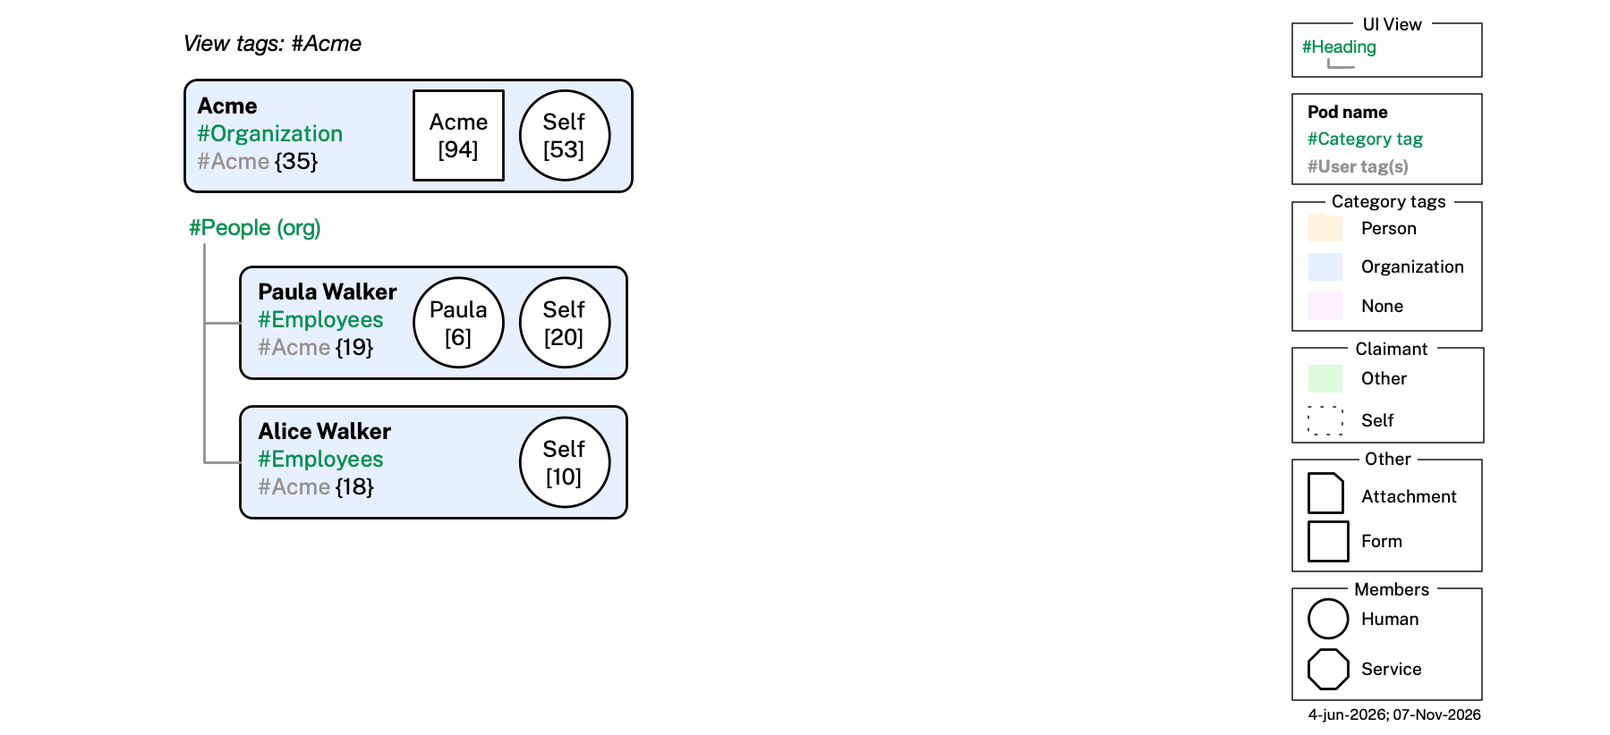
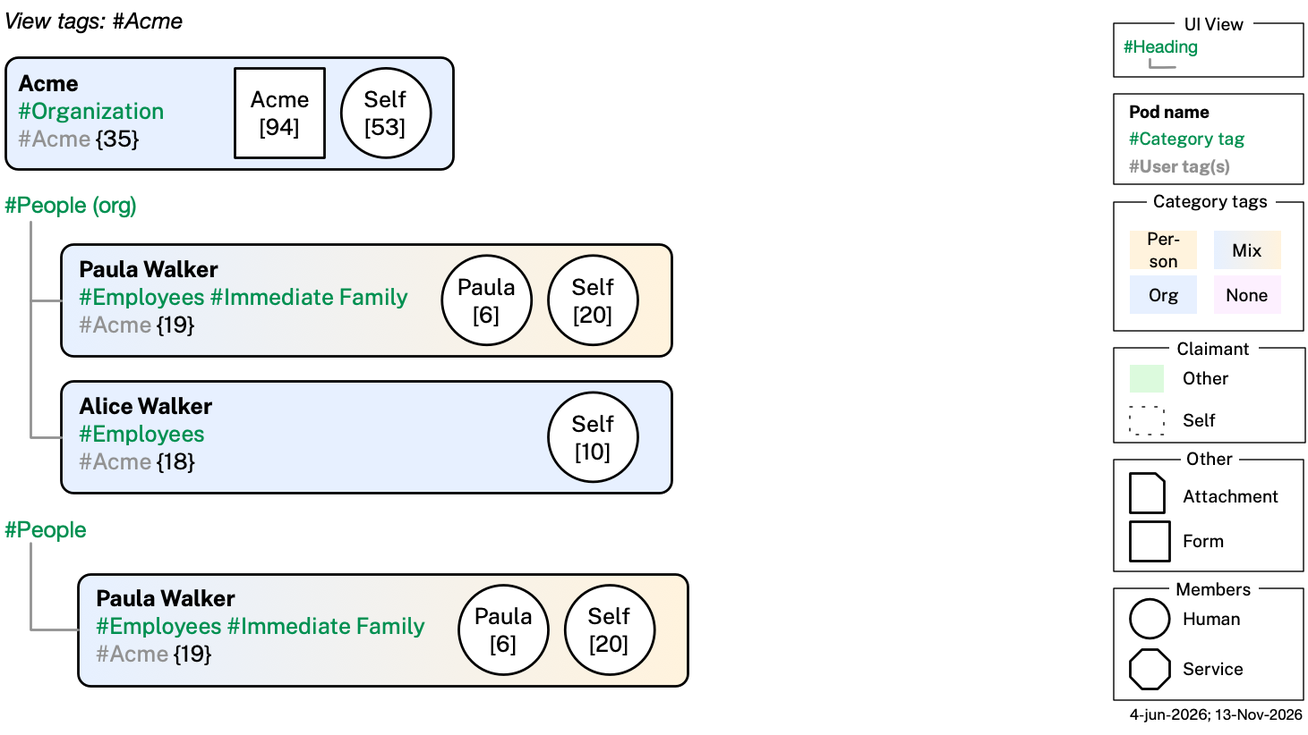
Redraw work.png with Paula Walker's two category tags
Paula Walker's box now shows both tags on one green line, carries the
Mixed fill as a light-blue-to-tan gradient, and is drawn once under each
of her tags' headers: #People (org) beside Alice Walker, and #People. The
legend's Category tags box becomes a 2x2 grid: Person, Mix, Org, None.
integrity.md (PNG-1/1f/1h/1i, PNG-8, PNG-9), README.md, app-behavior.md and
example.md now describe that style. The PNG-1i script prints the box's full
tag line.

pod.png was already redrawn with categoryTag 0..N and went into e15a21aa,
whose message wrongly listed it as still to do. The 2x2 legend still has
to be carried into the other 12 diagrams.

diff --git a/integrity.md b/integrity.md
@@ -53,7 +53,7 @@ These read a **PNG**: either its pixels, or the drawing itself compared by eye a
 **PNG-1 — Example pod diagrams**: Each of the 12 pod diagrams in `example/images/` draws one persistent view as the desktop app would display it: a flat list of pod boxes, plus display-only elements the app generates from the pods' tags. None of those elements is a pod, and none is stored anywhere. The diagrams draw no nesting, and none should ever be added: pods are a flat set. Each pod box corresponds to a pod in `example/Pods/`, the folder `example/Pods/<Name>/` holding its one pod-databook, `<Name>.databook.md`. The box's bold black first line is the pod's name, mirrored in its pod-databook's `title:`. A pod box reads, top to bottom:
 
 1. the pod's name, in bold black;
-2. its category tags as green `#<prefLabel>` lines, one per tag, if it has any (PNG-1f);
+2. its category tags on one green line, each as `#<prefLabel>`, if it has any (PNG-1f);
 3. its user tags as grey `#<tag>` text, if it has any (PNG-1f);
 4. its `{NN}` pod number (PNG-1g).
 
@@ -96,7 +96,7 @@ for path in sorted(glob.glob('example/Pods/**/*.databook.md', recursive=True)):
 
 - **PNG-1e — Retired.** It matched each diagram's child arrows to folder nesting under `example/Pods/`. Pods do not nest and `example/Pods/` is flat (FS-5), so there are no child links to match. The grey connectors the 12 diagrams draw join a group header to the pods listed under it (PNG-1i); they are display-only and say nothing about nesting.
 
-- **PNG-1f — Green category-tag lines and grey user-tag text match the pod's tags**: Below the name, a pod box shows its own tags, with the hash the UI uses for a tag. Each **category tag** is a green `#<prefLabel>` line, one per `pod:categoryTag` concept in `tpod.categoryTag` order, giving that concept's `skos:prefLabel`, from `pod-categories.ttl` or from a category extension's own file under `pod-category-ext/`. The label must match its concept's `skos:prefLabel` verbatim, no more and no fewer words, and never abbreviated. The line is shown even when the label equals the pod's own name: `things.png`'s "Things" box shows `#Things`, and `gov-federal.png`'s "SSN" box shows `#SSN`. No green line is drawn only for a pod with no category tags. The **user tags** follow in grey, each as `#<tag>`, one per `tpod.userTag` value, and none for a pod with none: `pets.png`'s three boxes each show `#Ginger`, and `work.png`'s three each show `#Acme`. A box shows no implied (broader) tag. The broader concepts appear only as group headers (PNG-1i). This is a visual check. PNG-1i's script prints every pod's green and grey lines for cross-reference: for example, `work.png`'s "Paula Walker" box shows two green lines, `#Employees` and `#Immediate Family`, `home.png`'s "Paradise" box shows `#Home` and its "Boston" box `#Previous`, matching their tags `podcat:Home` and `podcat:Previous`, and `travel.png`'s "Kyoto Trip 2027" box shows `#Trips`.
+- **PNG-1f — Green category-tag lines and grey user-tag text match the pod's tags**: Below the name, a pod box shows its own tags, with the hash the UI uses for a tag. The **category tags** share one green line, each written `#<prefLabel>` and separated by a space, in `tpod.categoryTag` order, giving each concept's `skos:prefLabel`, from `pod-categories.ttl` or from a category extension's own file under `pod-category-ext/`. The label must match its concept's `skos:prefLabel` verbatim, no more and no fewer words, and never abbreviated. The line is shown even when the label equals the pod's own name: `things.png`'s "Things" box shows `#Things`, and `gov-federal.png`'s "SSN" box shows `#SSN`. No green line is drawn only for a pod with no category tags. The **user tags** follow in grey, each as `#<tag>`, one per `tpod.userTag` value, and none for a pod with none: `pets.png`'s three boxes each show `#Ginger`, and `work.png`'s three each show `#Acme`. A box shows no implied (broader) tag. The broader concepts appear only as group headers (PNG-1i). This is a visual check. PNG-1i's script prints every pod's green and grey lines for cross-reference: for example, `work.png`'s "Paula Walker" box shows the green line `#Employees #Immediate Family`, `home.png`'s "Paradise" box shows `#Home` and its "Boston" box `#Previous`, matching their tags `podcat:Home` and `podcat:Previous`, and `travel.png`'s "Kyoto Trip 2027" box shows `#Trips`.
 
 - **PNG-1g — Black curly-brace `{NN}` label matches the pod's own `pod-<NN>` id**: Every pod box ends with a small black `{NN}` label in curly braces: the pod's own number. It sits on its own last line, or at the end of the last tag line (`#Ginger {41}`, `#Groups {27}`). It must equal the number in the pod-databook's own `id: http://www.example.org/tpod/pods/pod-<NN>` (see YAML-3), written without its zero padding. Group headers and the view header carry no `{NN}`, since they are not pods. Don't confuse this label with the `[NN]` labels on graph shapes (PNG-1d): those are graph numbers in square brackets on a circle, octagon or square, while this is the pod's own number in curly braces on the box itself. This is a visual check (no automated OCR), but the script below, and PNG-1i's, print every pod's actual `pod-<NN>` for cross-reference. For example, `people.png`'s "Bob Johnson" box shows `{16}` and its "Fred Flintstone" box `{17}`; `people2.png`'s "Sophia Walker" box shows `{12}`, "Sophia Health & Wellness" `{13}`, "Jane Starostina" `{14}` and "Medical Appointment" `{15}`; `pets.png`'s "Ginger" box shows `{41}`, "Ginger Medical" `{40}` and "Ginger Care & Feeding" `{42}`; and `travel.png`'s "Kyoto Trip 2027" box shows `{47}` and "Hilton" `{52}`. Run:
 
@@ -112,12 +112,12 @@ for path in sorted(glob.glob('example/Pods/**/*.databook.md', recursive=True)):
         print(f'{m.group(1)}  {path}')
 ```
 
-- **PNG-1h — Fill color matches real data**: Every pod box's **fill** is set by its category type, matching the legend's "Category tags" box. The type comes from the top concepts the pod's `pod:categoryTag` values reach, following `skos:broader` upward, and for a category extension's concept its single `skos:broadMatch` into the core taxonomy first. The fill is tan/Person when every tag reaches `podcat:Person`, light blue/Organization when every tag reaches `podcat:Organization`, split tan/light-blue (Mixed) when the tags reach both, and purple/None when the pod carries no category tag at all. A pod's **name** is always bold black. These diagrams carry no green-name/black-name distinction, the category tags being shown on their own green lines instead (PNG-1f). This is a visual check (no automated pixel/OCR comparison). Use PNG-9's script to compute the correct fill for every pod. For example, `people.png`'s "Bob Johnson" and "Fred Flintstone" are tan (tag `podcat:Others`), `work.png`'s "Acme" and "Alice Walker" are light blue (`podcat:Organization` itself, and `podcat:Employees`, which reaches it), its "Paula Walker" is split tan/light-blue (Mixed: `podcat:Employees` reaches `podcat:Organization`, `podcat:ImmediateFamily` reaches `podcat:Person`), and `groups.png`'s "Boston Hub Society" is tan (`bhscat:BostonHubSociety` reaches `podcat:Person` through its `skos:broadMatch` to `podcat:Groups`). Every example pod carries a category tag, so no example diagram box is expected to show purple fill.
+- **PNG-1h — Fill color matches real data**: Every pod box's **fill** is set by its category type, matching the legend's "Category tags" box. The type comes from the top concepts the pod's `pod:categoryTag` values reach, following `skos:broader` upward, and for a category extension's concept its single `skos:broadMatch` into the core taxonomy first. The fill is tan/Person when every tag reaches `podcat:Person`, light blue/Organization when every tag reaches `podcat:Organization`, a light-blue-to-tan gradient (Mixed) when the tags reach both, and purple/None when the pod carries no category tag at all. A pod's **name** is always bold black. These diagrams carry no green-name/black-name distinction, the category tags being shown on their own green line instead (PNG-1f). This is a visual check (no automated pixel/OCR comparison). Use PNG-9's script to compute the correct fill for every pod. For example, `people.png`'s "Bob Johnson" and "Fred Flintstone" are tan (tag `podcat:Others`), `work.png`'s "Acme" and "Alice Walker" are light blue (`podcat:Organization` itself, and `podcat:Employees`, which reaches it), its "Paula Walker" carries the light-blue-to-tan gradient (Mixed: `podcat:Employees` reaches `podcat:Organization`, `podcat:ImmediateFamily` reaches `podcat:Person`), and `groups.png`'s "Boston Hub Society" is tan (`bhscat:BostonHubSociety` reaches `podcat:Person` through its `skos:broadMatch` to `podcat:Groups`). Every example pod carries a category tag, so no example diagram box is expected to show purple fill.
 
 - **PNG-1i — The view header and group headers match the pods' tags**: These elements are display-only, and none of them is a pod. Each diagram carries one view header and zero or more group headers.
 
   - **The view header** is an italic `View tags: #<tag>` at the top left. It names the persistent view's stored tag query, and every pod box drawn must match it. A pod matches when the tag is one of the pod's user tags (`#Ginger`, `#Sophia`, `#Acme`), when the tag is one of the pod's category tags, or when the tag is a concept one of its category tags reaches upward (`#Travel` matches `#Trips` and `#Provider`; `#Groups` matches `#Boston Hub Society` through its `skos:broadMatch`).
-  - **A group header** is a green `#<prefLabel>` with grey connectors to the pods listed under it. A pod's headers are, for each of its category tags, the broader concepts that tag reaches, outermost first, down to the tag's immediate broader concept. A pod with several category tags is listed once under each of its tags' header chains, so it can appear more than once in one view: `work.png`'s "Paula Walker" sits under `#People (org)` for `podcat:Employees` and under `#People` for `podcat:ImmediateFamily`. The top concept (`podcat:Person` or `podcat:Organization`) is never drawn as a header. A deeper header is drawn indented beneath the one above it: `people2.png`'s `#Health & Wellness`, then `#Medical`, then `#Provider`, above Jane Starostina and Medical Appointment. A header is never the category tag it is drawn for; that tag is on the box (PNG-1f).
+  - **A group header** is a green `#<prefLabel>` with grey connectors to the pods listed under it. A pod's headers are, for each of its category tags, the broader concepts that tag reaches, outermost first, down to the tag's immediate broader concept. A pod with several category tags is listed once under each of its tags' header chains, so it can appear more than once in one view: `work.png`'s "Paula Walker" is drawn twice, once under `#People (org)` for `podcat:Employees` and once under `#People` for `podcat:ImmediateFamily`, both boxes identical. The top concept (`podcat:Person` or `podcat:Organization`) is never drawn as a header. A deeper header is drawn indented beneath the one above it: `people2.png`'s `#Health & Wellness`, then `#Medical`, then `#Provider`, above Jane Starostina and Medical Appointment. A header is never the category tag it is drawn for; that tag is on the box (PNG-1f).
   - **Pods with no header** are those listed for a tag that sits directly under a top concept, or is one, and those which carry no tag. They are listed first, above every header: `things.png`'s "Things" (`#Things`, directly under Person) above `#Things` and RAV4, and `work.png`'s "Acme" (`#Organization`) above `#People (org)`.
 
   A header that stands for no concept the tag it is drawn for reaches, or a header skipped in the chain, is an error. So is a header that duplicates that tag, or a top concept drawn as a header. The script below prints, for every pod and each of its category tags, the header chain, the green category-tag line, its grey user-tags line, and its `{NN}`. Run:
@@ -171,13 +171,15 @@ for path in sorted(glob.glob('example/Pods/**/*.databook.md', recursive=True)):
     tpod = fm.get('tpod', {}) or {}
     num = re.search(r'pod-0*(\d+)$', str(fm.get('id', '')))
     grey = ' '.join('#' + t for t in as_list(tpod.get('userTag'))) or '-'
-    # One row per category tag: a multi-tag pod is listed under each tag's chain.
-    for tag in as_list(tpod.get('categoryTag')) or [None]:
+    tags = as_list(tpod.get('categoryTag'))
+    # The box's one green line carries every tag; the box itself is drawn once
+    # under each tag's header chain, so a multi-tag pod gets one row per tag.
+    green = ' '.join('#' + labels.get(t, '???') for t in tags) or '-'
+    for tag in tags or [None]:
         hdr = headers(tag) if tag else []
         if hdr is None:
             print(f'UNRESOLVED: {path} has a category tag that reaches no top concept: {tag}')
             continue
-        green = '#' + labels.get(tag, '???') if tag else '-'
         print(f'{fm.get("title"):35s} headers={" > ".join("#" + h for h in hdr) or "-":40s} '
               f'green={green:26s} grey={grey:10s} {{{num.group(1) if num else "?"}}}')
 ```
@@ -232,13 +234,13 @@ The split into two leaves is the diagram's substantive claim, and it is a PDN-la
 - **38e** — the class-label colors match `pod.ttl`'s `pod:abstract` annotations: `Tool` blue (`pod:abstract true`), the six leaves black (none carries it). The Key lists exactly the swatches this diagram uses — two here, since nothing in it is the green "concrete but hidden" case.
 - **38f** — no `tool` or `declaresTool` arrow is drawn *into* `Tool` here; both belong to `pod.png` (PNG-3), which shows `pod:Tool` only as a target box.
 
-**PNG-8 — `images/representative-pods.png` matches example usage**: This diagram illustrates seven representative pods, drawn in the same pod-box style as the 12 example diagrams (PNG-1): a bold black name, each category tag as a green `#<prefLabel>` line (PNG-1f), and any user tags as grey `#<tag>` text. Unlike them, it is not a persistent view, so it carries no view header and no group headers, and its boxes carry no `{NN}` label, six of the seven being generic rather than real example pods.
+**PNG-8 — `images/representative-pods.png` matches example usage**: This diagram illustrates seven representative pods, drawn in the same pod-box style as the 12 example diagrams (PNG-1): a bold black name, the category tags as a green `#<prefLabel>` line (PNG-1f), and any user tags as grey `#<tag>` text. Unlike them, it is not a persistent view, so it carries no view header and no group headers, and its boxes carry no `{NN}` label, six of the seven being generic rather than real example pods.
 
 Its legend is the same six titled boxes the 12 example diagrams carry, stacked in this order: "UI View", "Pod name", "Category tags", "Claimant", "Other", "Members". The identical block appears in 13 diagrams, so a change to it has to be applied thirteen times by hand, the same fan-out PNG-11 warns about. Box by box:
 
 - **UI View** holds a green `#Heading` with a grey connector, standing for a group header (PNG-1i). This diagram draws none; the box is kept so that all 13 legends stay identical.
 - **Pod name** holds the three-line pod-box formula: bold black "Pod name", green "#Category tag", grey "#User tag(s)".
-- **Category tags** holds four fill-color swatches, Person (tan), Organization (light blue), Mixed (split tan/light-blue) and None (purple/lavender), following PNG-1h's rule over the pod's category tags. "Mixed" is a pod whose tags reach both top concepts. "None" is a pod carrying no `pod:categoryTag`, a display convention and not a class.
+- **Category tags** holds four fill-color swatches in a 2×2 grid, labeled inside each swatch: "Person" (tan) and "Mix" (light-blue-to-tan gradient) on top, "Org" (light blue) and "None" (purple/lavender) below, following PNG-1h's rule over the pod's category tags. "Mix" is a pod whose tags reach both top concepts. "None" is a pod carrying no `pod:categoryTag`, a display convention and not a class.
 - **Claimant** holds two claim-fill swatches, a green "Other" (claimed by someone other than the self) and a dashed "Self" (claimed by the user). Claim fill is a two-state fact; there is no third "Delegate" fill (see PNG-10 and PNG-11).
 - **Other** holds a document icon labeled "Attachment", a pod attachment drawn in a pod box (filled green when it is a credential signed by its issuer, per PNG-10, and never counted as a graph shape, per PNG-1c), and a square labeled "Form", the kind of tool a square stands for.
 - **Members** holds a circle labeled "Human" and an octagon labeled "Service".
@@ -257,7 +259,7 @@ Its legend is the same six titled boxes the 12 example diagrams carry, stacked i
 
   Each pod box shows no icon of any kind, no folder icon and no separate "note" or "chat" icon (see PNG-3's `pod:note`/`pod:chat` planned-property note, which concerns `pod.png` only), just the filled box itself. Re-verify each box's circles and squares remain a valid illustration of the properties and cardinalities described in the Pod and Graph Ontology sections of `README.md` after any change to those properties.
 
-**PNG-9 — a pod carries no category tag if and only if it is drawn with the Custom fill**: Every pod drawn in `images/folder-mapping.png`, `representative-pods.png` and the 12 example diagrams (PNG-1h) carries a **fill** set by its category type: tan/Person, light blue/Organization, split tan/light-blue (Mixed), or purple/None (Custom), from the top concepts its `pod:categoryTag` values reach. The Custom case is the one this check pins down: a pod is drawn purple **exactly when** its pod-databook carries no `tpod.categoryTag` value at all, the Custom category being identified by that absence and nothing else. A pod carrying any category tag is never purple, and a pod carrying none is never anything else. In `folder-mapping.png` the fill sits on the folder icon itself. That diagram pictures the repo's development scaffolding rather than a pod as the app holds it, which is also why it draws a Pod DataBook file, unlike the 12 example diagrams. It draws `example/Pods/` as a white folder holding two sibling pod folders, "Bob Johnson" and "Fred Flintstone" (both tag `podcat:Others`, so both tan). Fred Flintstone is expanded to show its DataBook, note file and `_pod-attachments` folder, with three attachments A, B and C. Only a folder that is a pod carries fill at all: `Pods` and `_pod-attachments` stay white, and the key names that distinction, the tan/white split being exactly the pod/not-a-pod test. Every folder name is black. The diagram carries no Custom or Organization pod, so its key lists only the tan swatch, labeled "Folder that is a pod (category tag under Person)". That is the rule for this diagram's key generally, matching PNG-3's for `pod.png`: the key lists exactly the swatches the drawing actually uses, so a swatch whose case is not drawn comes out rather than standing as an unexercised entry. This is a visual check (no automated pixel/OCR comparison), but the script below computes, for every real pod, its category tags and their labels, its category type, and the fill the rule calls for, for direct cross-reference against whichever diagram box or folder is being checked. It reports `UNRESOLVED` for a tag it cannot follow to `podcat:Person` or `podcat:Organization`. Run:
+**PNG-9 — a pod carries no category tag if and only if it is drawn with the Custom fill**: Every pod drawn in `images/folder-mapping.png`, `representative-pods.png` and the 12 example diagrams (PNG-1h) carries a **fill** set by its category type: tan/Person, light blue/Organization, a light-blue-to-tan gradient (Mixed), or purple/None (Custom), from the top concepts its `pod:categoryTag` values reach. The Custom case is the one this check pins down: a pod is drawn purple **exactly when** its pod-databook carries no `tpod.categoryTag` value at all, the Custom category being identified by that absence and nothing else. A pod carrying any category tag is never purple, and a pod carrying none is never anything else. In `folder-mapping.png` the fill sits on the folder icon itself. That diagram pictures the repo's development scaffolding rather than a pod as the app holds it, which is also why it draws a Pod DataBook file, unlike the 12 example diagrams. It draws `example/Pods/` as a white folder holding two sibling pod folders, "Bob Johnson" and "Fred Flintstone" (both tag `podcat:Others`, so both tan). Fred Flintstone is expanded to show its DataBook, note file and `_pod-attachments` folder, with three attachments A, B and C. Only a folder that is a pod carries fill at all: `Pods` and `_pod-attachments` stay white, and the key names that distinction, the tan/white split being exactly the pod/not-a-pod test. Every folder name is black. The diagram carries no Custom or Organization pod, so its key lists only the tan swatch, labeled "Folder that is a pod (category tag under Person)". That is the rule for this diagram's key generally, matching PNG-3's for `pod.png`: the key lists exactly the swatches the drawing actually uses, so a swatch whose case is not drawn comes out rather than standing as an unexercised entry. This is a visual check (no automated pixel/OCR comparison), but the script below computes, for every real pod, its category tags and their labels, its category type, and the fill the rule calls for, for direct cross-reference against whichever diagram box or folder is being checked. It reports `UNRESOLVED` for a tag it cannot follow to `podcat:Person` or `podcat:Organization`. Run:
 
 ```python
 import glob, re, yaml
@@ -294,7 +296,7 @@ def top_of(curie):
     return TOPS[curie]
 
 FILL = {'Person': 'tan/Person', 'Organization': 'light-blue/Organization',
-        'Mixed': 'split tan/light-blue/Mixed', 'Custom': 'purple/None'}
+        'Mixed': 'blue-to-tan gradient/Mixed', 'Custom': 'purple/None'}
 
 def as_list(v):
     return v if isinstance(v, list) else ([v] if v else [])
@@ -324,7 +326,7 @@ for path in sorted(glob.glob('example/Pods/**/*.databook.md', recursive=True)):
     print(f'{title:35s} tags={shown:50s} label={label:40s} fill={FILL[kind]}')
 ```
 
-If a diagram box's fill doesn't match this script's output for the corresponding pod, update `tpod.categoryTag` only if the *data* is actually wrong. Otherwise the box is what needs redrawing. No diagram colors a pod's name: every name is black, the category tags being shown on their own green lines (PNG-1f), which the script's `label` column gives.
+If a diagram box's fill doesn't match this script's output for the corresponding pod, update `tpod.categoryTag` only if the *data* is actually wrong. Otherwise the box is what needs redrawing. No diagram colors a pod's name: every name is black, the category tags being shown on their own green line (PNG-1f), which the script's `label` column gives.
 
 **PNG-10 — a graph shape's claim-fill color matches its graph's own `claimant`**: PNG-1c settles a pod box's graph *shapes* (a circle per `member` entry, a square per tool graph) and explicitly defers their **fill** to PNG-8's legend, as "a separate, independent fact showing who claimed that graph". PNG-1h then checks only the *pod box*'s own Person/Organization/Custom fill and its name-text color. So the claim-fill of the circles and squares themselves — the one color that encodes `pod:claimant` — was defined but verified nowhere, in any of the 12 diagrams. This check closes that gap. The rule, per PNG-8's legend, is a three-way partition of every drawn graph shape, decided entirely by that graph's own `claimant`:
 

diff --git a/example.md b/example.md
@@ -34,7 +34,7 @@ The diagrams embedded below show what the desktop app displays. A view's header 
 
 Alice is an employee of Acme, so she has created an *Acme* pod to represent her employer. Since Acme is an organization, she tagged it with `podcat:Organization` itself, the top concept of the taxonomy's organizational half (shown in light blue), rather than with a concept under `podcat:Person`. Her three Acme-related pods all carry her user tag "Acme", which is how her Acme view gathers them. The *Acme* pod's form tool, whose topic is `:Acme`, holds the company's own profile as Alice records it — its employee count and website ([graph 94](<example/Pods/Acme/Acme.databook.md#graph-94>)) — while its required `member` entry ([graph 53](<example/Pods/Acme/Acme.databook.md#graph-53>)) is her usual given-name stub.
 
-She has also created her own *Alice Walker* pod (`podcat:Employees`) holding her Contact Info claims ([graph 10](<example/Pods/Alice Walker/Alice Walker.databook.md#graph-10>)) — job title at Acme, work telephone number, work email, etc. One of the employees she works with is Paula Walker, her mother, so she has a *Paula Walker* pod for her, tagged both `podcat:Employees`, like her own, and `podcat:ImmediateFamily` — the example's one pod with two category tags. Since the first reaches `podcat:Organization` and the second `podcat:Person`, a search under either half of the taxonomy finds the pod, its box in the diagram below is drawn with the split tan/light-blue Mixed fill, and it appears under the group headers of both tags. It is a two-member pod: alongside Alice's own claims about herself ([graph 20](<example/Pods/Paula Walker/Paula Walker.databook.md#graph-20>)), Paula is the second member ([graph 6](<example/Pods/Paula Walker/Paula Walker.databook.md#graph-06>), a bare identifying claim mirroring Alice's own). Alice has not yet shared the pod with Paula, so both graphs are still Alice's own claims, graph 6 included.
+She has also created her own *Alice Walker* pod (`podcat:Employees`) holding her Contact Info claims ([graph 10](<example/Pods/Alice Walker/Alice Walker.databook.md#graph-10>)) — job title at Acme, work telephone number, work email, etc. One of the employees she works with is Paula Walker, her mother, so she has a *Paula Walker* pod for her, tagged both `podcat:Employees`, like her own, and `podcat:ImmediateFamily` — the example's one pod with two category tags. Since the first reaches `podcat:Organization` and the second `podcat:Person`, a search under either half of the taxonomy finds the pod, its box in the diagram below is drawn with the light-blue-to-tan Mixed gradient, and it appears twice, once under each tag's group header. It is a two-member pod: alongside Alice's own claims about herself ([graph 20](<example/Pods/Paula Walker/Paula Walker.databook.md#graph-20>)), Paula is the second member ([graph 6](<example/Pods/Paula Walker/Paula Walker.databook.md#graph-06>), a bare identifying claim mirroring Alice's own). Alice has not yet shared the pod with Paula, so both graphs are still Alice's own claims, graph 6 included.
 
 <p align="center"><img src="example/images/work.png" alt="Work pods"></p>
 

diff --git a/README.md b/README.md
@@ -278,7 +278,7 @@ The diagram below shows seven representative pods.
 
 <p align="center"><img src="images/representative-pods.png" alt="Pods, categories, and graphs"></p>
 
-Each pod box shows the pod's name in bold black, each category tag as a green `#label` line, and any user tags as grey `#tag` text. The box's fill follows the top concepts (`podcat:Person`, `podcat:Organization`) that the pod's category tags reach: tan when every tag is Person-rooted, light blue when every tag is Organization-rooted, split tan/light blue (Mixed) when they reach both, and purple for a pod with no category tag at all. A category extension's concept reaches a top concept through its `skos:broadMatch`. Fill and tag lines are display choices drawn from the pod's own tags, not separate RDF properties; see [Scaffolding: This Repo's Filesystem Tree](app-behavior.md#scaffolding-this-repos-filesystem-tree) in app-behavior.md for the same fill convention on this repo's folders. Each box is an independent pod: pods do not nest, and the diagram's vertical order means nothing.
+Each pod box shows the pod's name in bold black, its category tags on a green `#label` line, and any user tags as grey `#tag` text. The box's fill follows the top concepts (`podcat:Person`, `podcat:Organization`) that the pod's category tags reach: tan when every tag is Person-rooted, light blue when every tag is Organization-rooted, a light-blue-to-tan gradient (Mixed) when they reach both, and purple for a pod with no category tag at all. A category extension's concept reaches a top concept through its `skos:broadMatch`. Fill and tag lines are display choices drawn from the pod's own tags, not separate RDF properties; see [Scaffolding: This Repo's Filesystem Tree](app-behavior.md#scaffolding-this-repos-filesystem-tree) in app-behavior.md for the same fill convention on this repo's folders. Each box is an independent pod: pods do not nest, and the diagram's vertical order means nothing.
 
 Regular pods contain one or more circles that represent structured information about the pod members. A pod carrying a form tool also contains a square, holding structured information about whatever that tool is about — a non-member person, an organization, or anything else.
 

diff --git a/app-behavior.md b/app-behavior.md
@@ -33,7 +33,7 @@ The diagram above shows that layout. `Pods` (`example/Pods/`) is not itself a po
 - its note file, `Fred Flintstone.md`;
 - its `_pod-attachments` folder, holding three example attachments, A, B and C, which every member of the pod receives.
 
-A folder that is a pod is drawn with its pod's fill, set by its category type (see [Pod Contents](#pod-contents) above): tan for Person, light blue for Organization, split tan/light blue for Mixed, purple for a pod with no category tag. Both pods here are tagged under Person, so both are tan. Every other folder, `_pod-attachments` included, stays white. A pod folder's name is the pod's name, carried in the DataBook's `title:` field, which mirrors the folder and the `<Name>.databook.md` filename verbatim (integrity.md's YAML-5; see the [Filename Convention](pod-databook.md#filename-convention) in pod-databook.md). The diagram does not show the member's own private files, which sit loose in the pod folder beside the DataBook and never reach any other member.
+A folder that is a pod is drawn with its pod's fill, set by its category type (see [Pod Contents](#pod-contents) above): tan for Person, light blue for Organization, a light-blue-to-tan gradient for Mixed, purple for a pod with no category tag. Both pods here are tagged under Person, so both are tan. Every other folder, `_pod-attachments` included, stays white. A pod folder's name is the pod's name, carried in the DataBook's `title:` field, which mirrors the folder and the `<Name>.databook.md` filename verbatim (integrity.md's YAML-5; see the [Filename Convention](pod-databook.md#filename-convention) in pod-databook.md). The diagram does not show the member's own private files, which sit loose in the pod folder beside the DataBook and never reach any other member.
 
 ### Deriving and Checking a Pod Id
 
